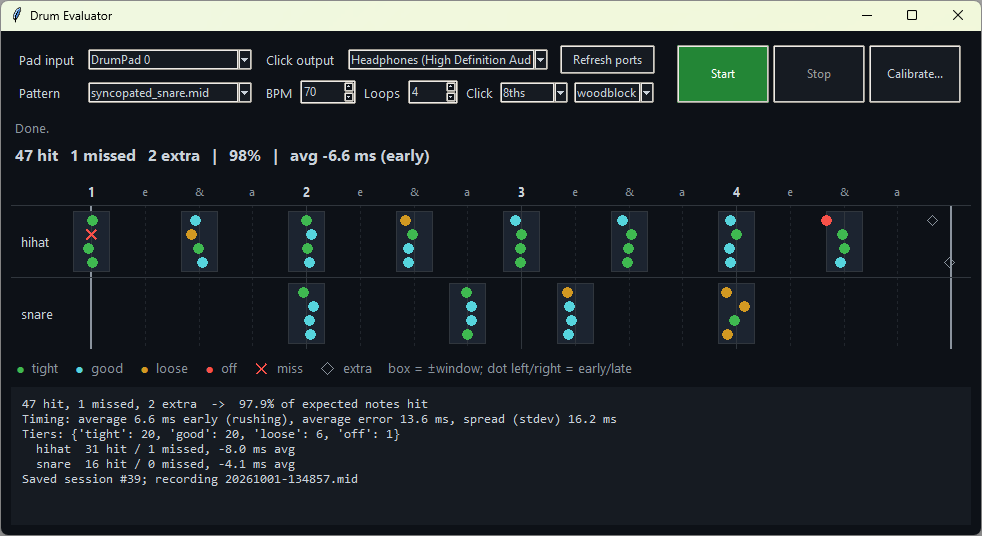
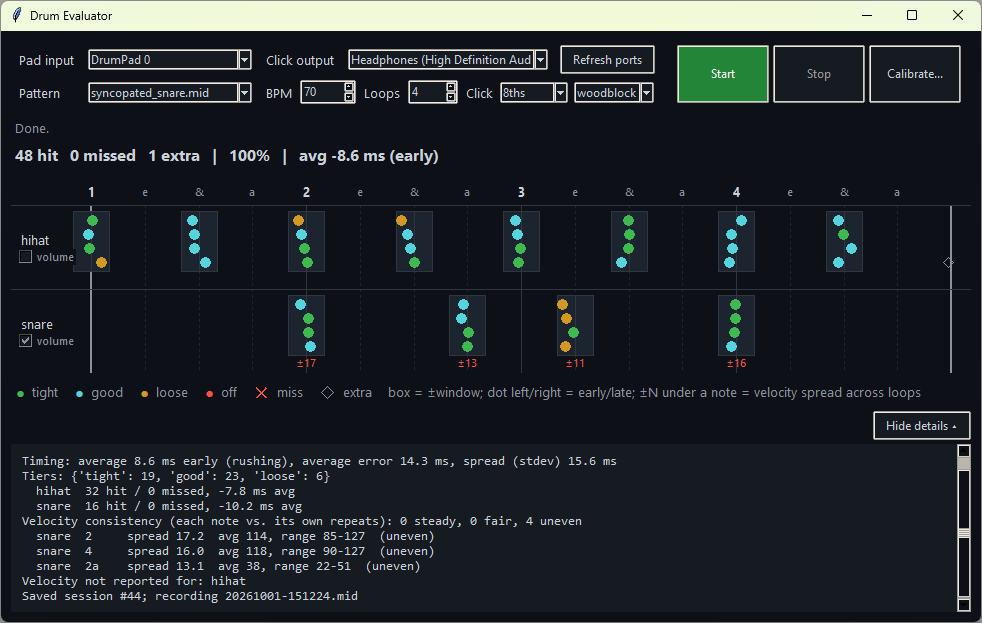
Dynamics feedback, plain-language summary, per-drum volume switches

diff --git a/README.md b/README.md
@@ -9,12 +9,13 @@ on, as you play.
 > giving feedback.
 
 ![Drum Evaluator after a play-along session: a timeline with a row per drum,
-each hit shown as a colored dot inside its timing window, and a session
-summary below](screenshots/2026-10-01.png)
+each hit shown as a colored dot inside its timing window, volume-consistency
+numbers under the snare notes, and the detailed session summary below](screenshots/2026-10-01.png)
 
 *After a 4-loop session on a syncopated groove: each dot is one hit, placed
 left or right of the beat by how early or late it was, and colored by how
-close it landed.*
+close it landed. The numbers under the snare notes show how evenly each
+note's volume was played across the loops.*
 
 ## What it does today
 
@@ -26,14 +27,18 @@ close it landed.*
   the beat they landed, in milliseconds.
 - **Timeline view.** A one-bar timeline with a row per drum shows where
   each hit landed against where it should have, loop by loop.
-- **Ghost notes.** Quiet and loud notes are told apart, so dynamics in a
-  groove are kept.
+- **Dynamics.** Checks how evenly you play each note of the groove from
+  loop to loop. Each note is only compared with its own repeats, so a ghost
+  note is judged as a ghost note and an accent as an accent. Volume feedback
+  can be switched off per drum (cymbals start off).
+- **Feedback in plain language.** After each session: how it went, your
+  timing and each drum in words, which notes weren't even, and one thing to
+  work on next. The full numbers are one click away.
 - **Latency calibration.** A short "hit any pad along with the click" test
   measures your setup's delay, so on-time playing scores as on time.
 - **Sample-accurate click.** The metronome is played directly through your
   sound card and placed to the exact sample.
-- **Session summary.** Totals, average timing, and how early or late you
-  tend to play per drum, saved after each session.
+- **Session history.** Every session's results are saved.
 - **Runs entirely on your computer.** No account, no internet connection,
   nothing uploaded.
 

diff --git a/CHANGELOG.md b/CHANGELOG.md
@@ -6,6 +6,16 @@ Notable changes to Drum Evaluator, newest first.
 
 ![The app on 2026-10-01](screenshots/2026-10-01.png)
 
+- **Dynamics feedback.** How evenly each note of the groove is played
+  across loops, compared only with its own repeats (the snare on 2 with
+  other snares on 2). Shown live under each note on the timeline.
+- **Plain-language summary.** Results now read like a teacher's notes:
+  how it went, timing in words, uneven notes by where they fall in the bar
+  ("snare ghost note on 2-a"), and one "Try next" suggestion. The detailed
+  numbers are behind a **Show details** button.
+- **Volume feedback per drum.** A checkbox on each drum's row turns its
+  volume feedback on or off. Cymbals start off, since their volume rarely
+  matters and would clutter the feedback.
 - **New click engine.** The metronome now plays directly through the sound
   card, timed to the exact sample. The click's own delay is compensated
   automatically, so calibration only has to measure the player and the pad.
